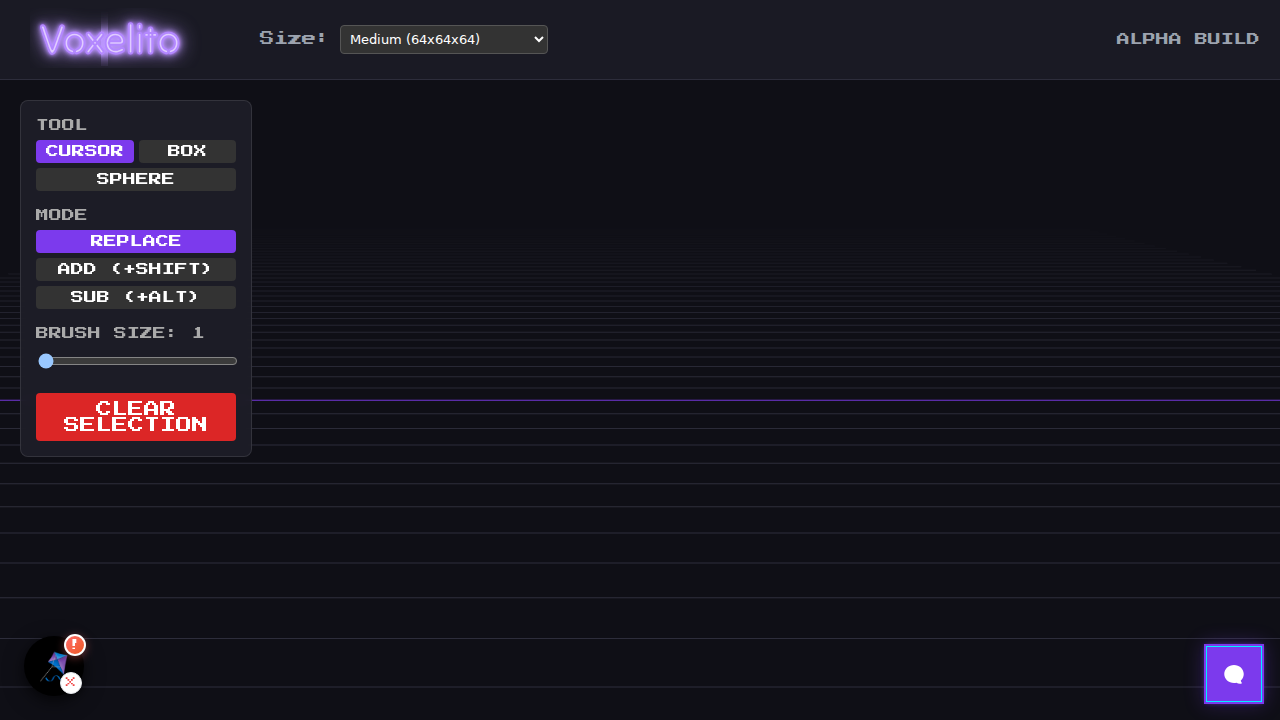
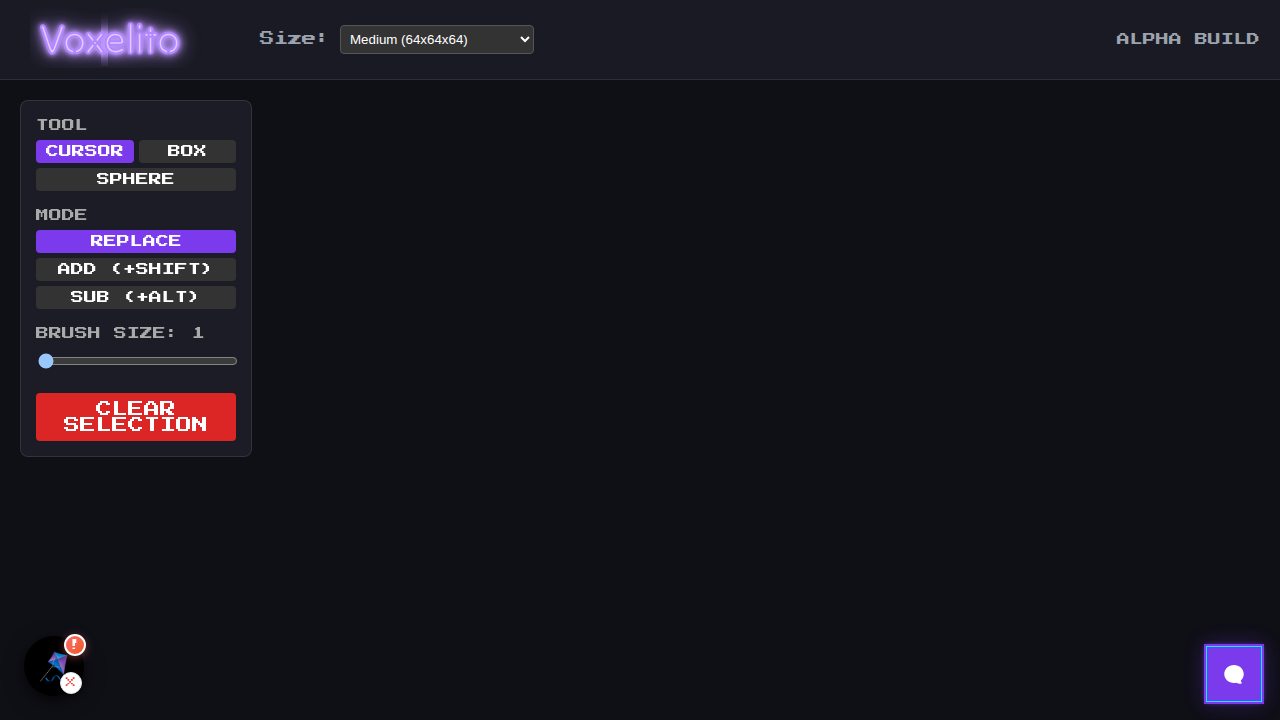
Fix: Ensure full scene visibility in screenshots by adjusting camera position
Updated E2E tests and verification scripts to explicitly position the camera (zoomed out, centered on origin) before capturing screenshots. This addresses the issue where the full diorama was not visible. Also updated UI verification to match current 'Voxelito' branding.

Changed region(s): [[0.2188, 0.55, 1.0, 0.5806], [0.2812, 0.0306, 0.375, 0.0611], [0.4062, 0.0306, 0.4375, 0.0917]]

diff --git a/e2e/large_scene.spec.ts b/e2e/large_scene.spec.ts
@@ -48,6 +48,26 @@ test.describe('Large Scene Generation', () => {
     // Wait for rendering (give it some time to process the RLE and mesh)
     await page.waitForTimeout(10000);
 
+    // Zoom out to see the full model
+    console.log('Zooming out...');
+    await page.evaluate(() => {
+        // @ts-ignore
+        if (window.voxelWorld) {
+            // @ts-ignore
+            // Set camera position further back and up for large scenes
+            window.voxelWorld.camera.position.set(0, 120, 120);
+            // @ts-ignore
+            window.voxelWorld.controls.target.set(0, 0, 0); // Look at origin
+            // @ts-ignore
+            window.voxelWorld.controls.update();
+            // @ts-ignore
+            window.voxelWorld.requestRender();
+        }
+    });
+
+    // Wait for camera move to settle
+    await page.waitForTimeout(2000);
+
     await page.screenshot({ path: path.join(SCREENSHOT_DIR, 'large_city_3_rendered.png') });
 
     // Enable auto-rotate for multiple angles

diff --git a/e2e/comprehensive.spec.ts b/e2e/comprehensive.spec.ts
@@ -106,6 +106,23 @@ test.describe('Voxelito E2E Tests', () => {
 
         // 5. Verify Scene Rendering
         await page.waitForTimeout(5000);
+
+        // Zoom out to see the full model
+        await page.evaluate(() => {
+            // @ts-ignore
+            if (window.voxelWorld) {
+                // @ts-ignore
+                window.voxelWorld.camera.position.set(0, 60, 60);
+                // @ts-ignore
+                window.voxelWorld.controls.target.set(0, 0, 0);
+                // @ts-ignore
+                window.voxelWorld.controls.update();
+                // @ts-ignore
+                window.voxelWorld.requestRender();
+            }
+        });
+        await page.waitForTimeout(1000);
+
         await page.screenshot({ path: path.join(SCREENSHOT_DIR, `${name}_3_scene.png`) });
     });
   }

diff --git a/e2e/complex_scene_test.spec.ts b/e2e/complex_scene_test.spec.ts
@@ -68,7 +68,7 @@ test.describe('Complex Scene Generation', () => {
         if (window.voxelWorld) {
             // @ts-ignore
             // Set camera position further back and up
-            window.voxelWorld.camera.position.set(0, 40, 60); // Lower/Closer to ensure visibility
+            window.voxelWorld.camera.position.set(0, 100, 100); // Further out to ensure full visibility
             // @ts-ignore
             window.voxelWorld.controls.target.set(0, 0, 0); // Look at origin
             // @ts-ignore

diff --git a/verify_ui.py b/verify_ui.py
@@ -18,8 +18,8 @@ def verify_ui():
             # Navigate to the app
             page.goto("http://localhost:5173")
 
-            # Wait for the app to load (check for VoxelVerse header)
-            page.wait_for_selector("text=VOXELVERSE", timeout=10000)
+            # Wait for the app to load (check for Voxelito header)
+            page.wait_for_selector("text=Voxelito", timeout=10000)
 
             # Wait for the chat popup to be visible (CopilotKit)
             page.wait_for_selector(".copilotKitButton", timeout=10000)
@@ -31,6 +31,18 @@ def verify_ui():
             page.wait_for_selector(".copilotKitPopup", timeout=5000)
 
             # Take a screenshot of the entire UI with the open chat
+
+            # Adjust camera to see the full scene
+            page.evaluate("""
+                if (window.voxelWorld) {
+                    window.voxelWorld.camera.position.set(0, 60, 60);
+                    window.voxelWorld.controls.target.set(0, 0, 0);
+                    window.voxelWorld.controls.update();
+                    window.voxelWorld.requestRender();
+                }
+            """)
+            page.wait_for_timeout(1000)
+
             page.screenshot(path="verification.png")
             print("Screenshot captured: verification.png")
 

diff --git a/verify_ui_voxelito.py b/verify_ui_voxelito.py
@@ -38,6 +38,18 @@ def verify_ui():
             page.wait_for_selector("text=Voxelito", timeout=5000)
 
             # Take a screenshot of the entire UI with the open chat
+
+            # Adjust camera to see the full scene
+            page.evaluate("""
+                if (window.voxelWorld) {
+                    window.voxelWorld.camera.position.set(0, 60, 60);
+                    window.voxelWorld.controls.target.set(0, 0, 0);
+                    window.voxelWorld.controls.update();
+                    window.voxelWorld.requestRender();
+                }
+            """)
+            page.wait_for_timeout(1000)
+
             page.screenshot(path="verification_voxelito.png")
             print("Screenshot captured: verification_voxelito.png")
 

diff --git a/verify_screenshot.py b/verify_screenshot.py
@@ -6,6 +6,18 @@ def run():
         page = browser.new_page()
         page.goto("http://localhost:5173")
         page.wait_for_timeout(5000)
+
+        # Adjust camera to see the full scene
+        page.evaluate("""
+            if (window.voxelWorld) {
+                window.voxelWorld.camera.position.set(0, 60, 60);
+                window.voxelWorld.controls.target.set(0, 0, 0);
+                window.voxelWorld.controls.update();
+                window.voxelWorld.requestRender();
+            }
+        """)
+        page.wait_for_timeout(1000)
+
         page.screenshot(path="docs/screenshots/verification_final.png")
         print("Screenshot taken")
         browser.close()
